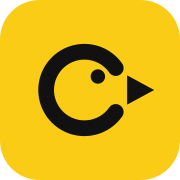
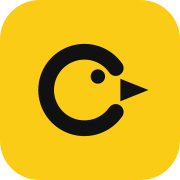
website: smaller beak in its original position, clear of the C's ends

Changed region(s): [[0.6667, 0.4167, 0.8611, 0.5833]]

diff --git a/website/index.html b/website/index.html
@@ -560,7 +560,7 @@
 
   <svg width="0" height="0" style="position:absolute" aria-hidden="true">
     <defs>
-      <symbol id="i-bird" viewBox="0 0 64 64"><g transform="translate(32 32) scale(.86) translate(-30.5 -32)"><path d="M41.93 22.25A17 17 0 1 0 41.93 41.75" fill="none" stroke="currentColor" stroke-width="7" stroke-linecap="round"/><path d="M47 25.5L59 32L47 38.5Z" fill="currentColor"/><circle cx="34" cy="26" r="3.2" fill="currentColor"/></g></symbol>
+      <symbol id="i-bird" viewBox="0 0 64 64"><g transform="translate(32 32) scale(.86) translate(-30.5 -32)"><path d="M41.93 22.25A17 17 0 1 0 41.93 41.75" fill="none" stroke="currentColor" stroke-width="7" stroke-linecap="round"/><path d="M44 27L56.5 32L44 37Z" fill="currentColor"/><circle cx="34" cy="26" r="3.2" fill="currentColor"/></g></symbol>
       <symbol id="i-gh" viewBox="0 0 16 16"><path fill="currentColor" d="M8 0C3.58 0 0 3.58 0 8c0 3.54 2.29 6.53 5.47 7.59.4.07.55-.17.55-.38 0-.19-.01-.82-.01-1.49-2.01.37-2.53-.49-2.69-.94-.09-.23-.48-.94-.82-1.13-.28-.15-.68-.52-.01-.53.63-.01 1.08.58 1.23.82.72 1.21 1.87.87 2.33.66.07-.52.28-.87.51-1.07-1.78-.2-3.64-.89-3.64-3.95 0-.87.31-1.59.82-2.15-.08-.2-.36-1.02.08-2.12 0 0 .67-.21 2.2.82.64-.18 1.32-.27 2-.27.68 0 1.36.09 2 .27 1.53-1.04 2.2-.82 2.2-.82.44 1.1.16 1.92.08 2.12.51.56.82 1.27.82 2.15 0 3.07-1.87 3.75-3.65 3.95.29.25.54.73.54 1.48 0 1.07-.01 1.93-.01 2.2 0 .21.15.46.55.38A8.013 8.013 0 0016 8c0-4.42-3.58-8-8-8z"/></symbol>
       <symbol id="i-copy" viewBox="0 0 24 24" fill="none" stroke="currentColor" stroke-width="2" stroke-linecap="round" stroke-linejoin="round"><rect x="9" y="9" width="12" height="12" rx="2"/><path d="M5 15H4a1 1 0 01-1-1V4a1 1 0 011-1h10a1 1 0 011 1v1"/></symbol>
       <symbol id="i-check" viewBox="0 0 24 24" fill="none" stroke="currentColor" stroke-width="2.2" stroke-linecap="round" stroke-linejoin="round"><path d="M20 6L9 17l-5-5"/></symbol>
